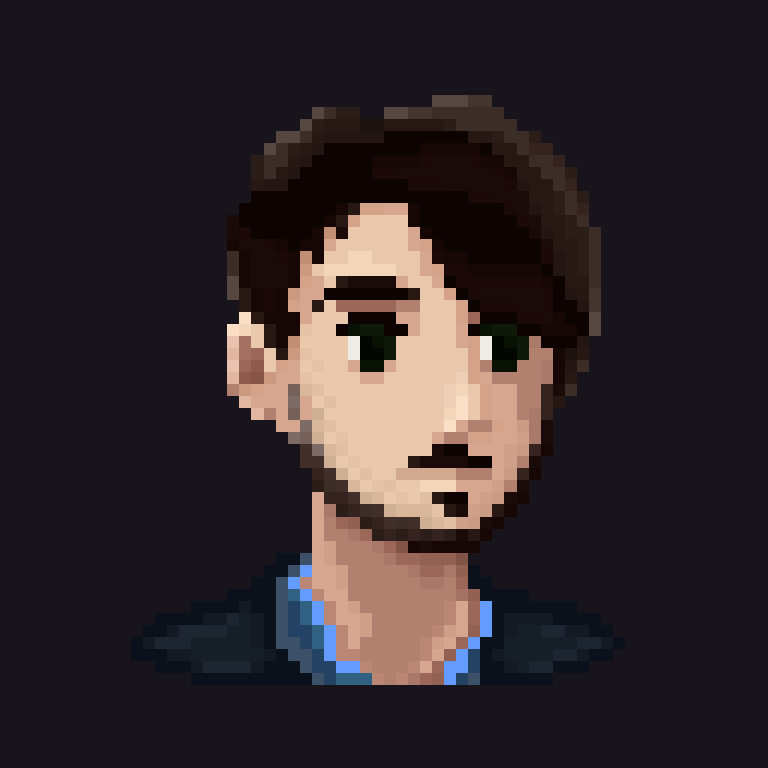
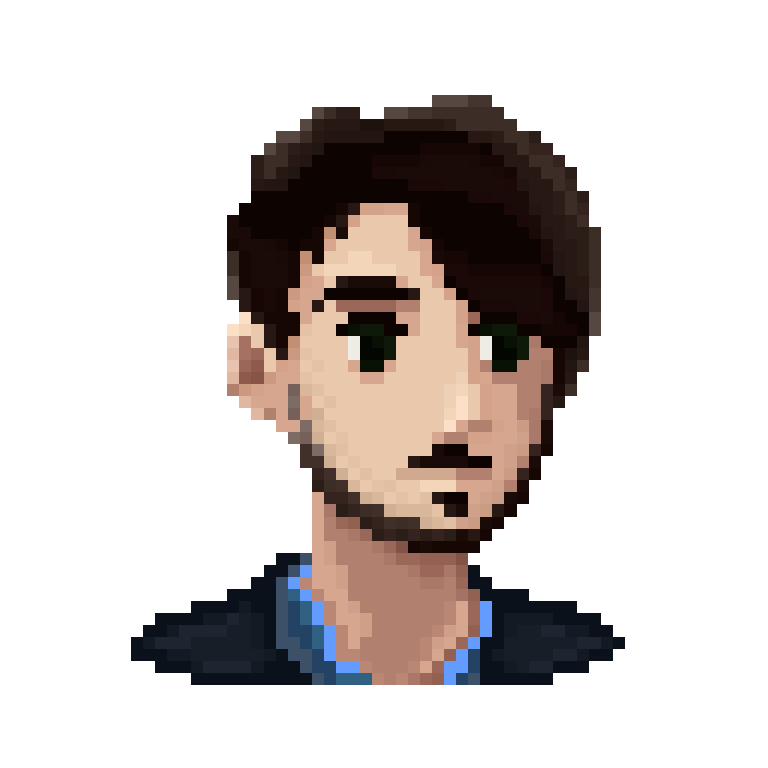
added timeline v.1, updated pictures

diff --git a/src/views/HomeView.vue b/src/views/HomeView.vue
@@ -71,7 +71,7 @@
         </v-col>
       </v-row>
     </v-container>
-    <v-container class="mb-32 text-center">
+    <v-container class="mb-8 text-center">
       <v-row justify="center">
         <v-col :cols="$vuetify.breakpoint.mobile ? '12' : '3'">
           <h2
@@ -95,34 +95,61 @@
       </v-row>
       <v-row justify="center">
         <v-col :cols="$vuetify.breakpoint.mobile ? '6' : '2'">
-          <v-card
-            class="mx-auto"
-            :width="$vuetify.breakpoint.mobile ? '175' : '200'"
+          <v-img
+            class="align-end"
+            height="300px"
+            src="@/assets/portraits/Portret_Luka_Big-noBG.png"
           >
-            <v-img
-              class="align-end"
-              height="300px"
-              src="@/assets/portraits/Portret_Luka_Big.png"
-            >
-              <v-card-title class="text-red-like-logo">blaskec</v-card-title>
-            </v-img>
-          </v-card>
+          </v-img>
         </v-col>
         <v-col :cols="$vuetify.breakpoint.mobile ? '6' : '2'">
-          <v-card
-            class="mx-auto"
-            :width="$vuetify.breakpoint.mobile ? '175' : '200'"
+          <v-img
+            class="align-end"
+            height="300"
+            src="@/assets/portraits/Portret_Alesandro_Big-noBG.png"
           >
-            <v-img
-              class="align-end"
-              height="300"
-              src="@/assets/portraits/Portret_Alesandro_Big.png"
-            >
-              <v-card-title class="text-red-like-logo">zuza</v-card-title>
-            </v-img>
-          </v-card>
+          </v-img>
         </v-col>
       </v-row>
+    </v-container>
+    <v-container class="mb-32 text-center">
+      <h2 class="text-4xl text-white font-bold uppercase mb-6">
+        What's been going on
+      </h2>
+      <v-row justify="center">
+        <v-timeline align-top :dense="$vuetify.breakpoint.smAndDown">
+          <v-timeline-item
+            v-for="(item, i) in reversedNews"
+            :key="i"
+            :color="item.color"
+            fill-dot
+            small
+          >
+            <v-card :color="item.color" dark max-width="800">
+              <v-card-title class="text-h6 uppercase">
+                <v-icon size="64">
+                  {{ item.icon }}
+                </v-icon>
+                {{ item.title }}
+              </v-card-title>
+
+              <v-container class="grey lighten-5">
+                <v-row class="text-xs text--primary p-2">{{ item.date }}</v-row>
+                <v-row>
+                  <v-col cols="12" md="10">
+                    <div class="text--primary">
+                      <p>{{ item.text }}</p>
+                      <v-btn :color="item.color" class="mx-0" outlined>
+                        read more
+                      </v-btn>
+                    </div>
+                  </v-col>
+                </v-row>
+              </v-container>
+            </v-card>
+          </v-timeline-item>
+        </v-timeline></v-row
+      >
     </v-container>
   </div>
 </template>
@@ -138,7 +165,35 @@ export default {
   },
   data: () => ({
     store,
+    news: [
+      {
+        color: "red lighten-1",
+        icon: "mdi-newspaper-variant",
+        date: "3 July, 2021",
+        title: "MacroQuiet is born!",
+        text: "Bring the Champagne!",
+      },
+      {
+        color: "red lighten-1",
+        icon: "mdi-newspaper-variant",
+        date: "21 July, 2021",
+        title: "Doge game available now!",
+        text: "The great and epic Doge game! Our first game ever. Made in just 2 weeks! Take control of lost doge trying to find his way out of town. Be careful! You will encounter many dogcatchers along the way. Also, those bones look really delicious.",
+      },
+      {
+        color: "red lighten-1",
+        icon: "mdi-newspaper-variant",
+        date: "28 May, 2022",
+        title: "Stranded Away coming soon!",
+        text: "2D shooter/puzzle game about exploring abandoned planets. You are playing a hero whose job is to save the galaxy from evil scientist Dr. Hone. Game is currently still work in progress!",
+      },
+    ],
   }),
+  computed: {
+    reversedNews() {
+      return this.news.reverse();
+    },
+  },
 };
 </script>
 
